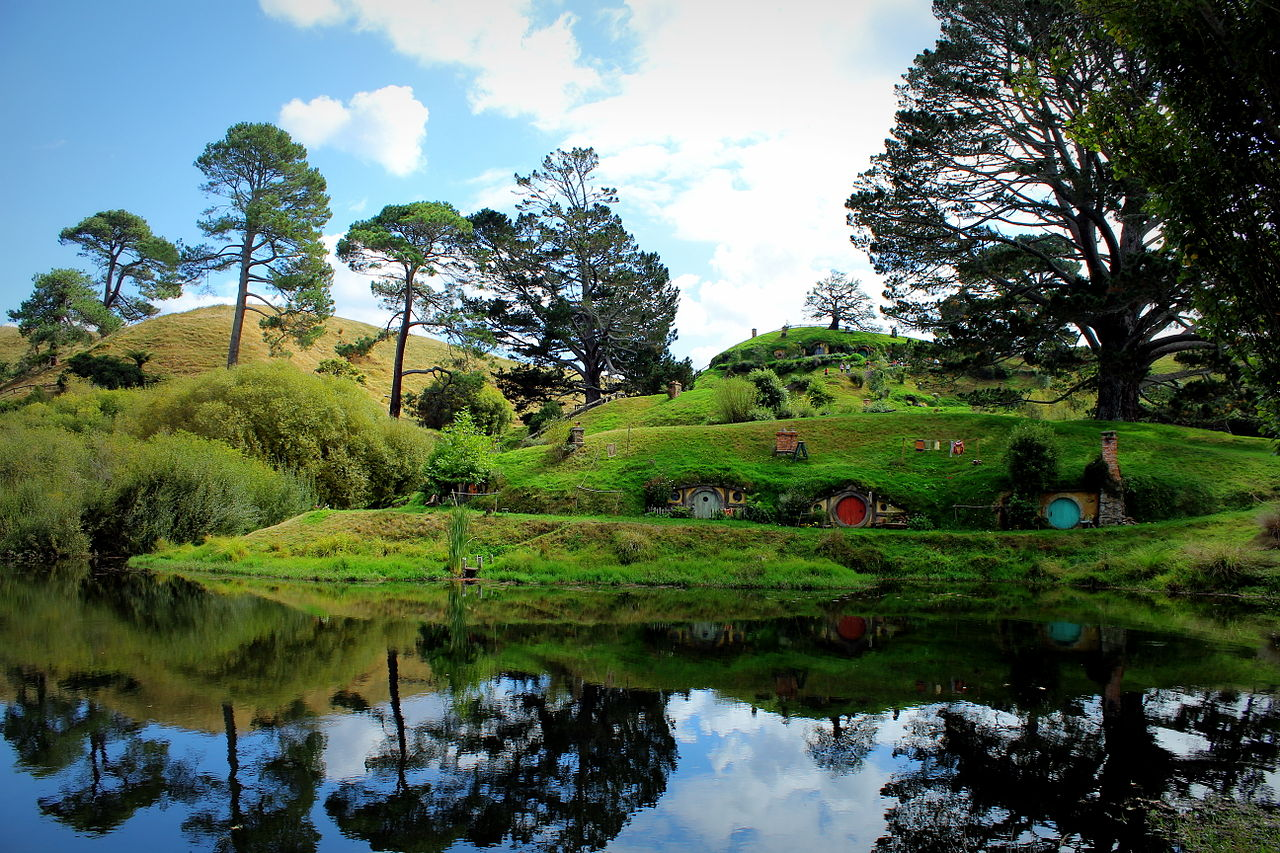
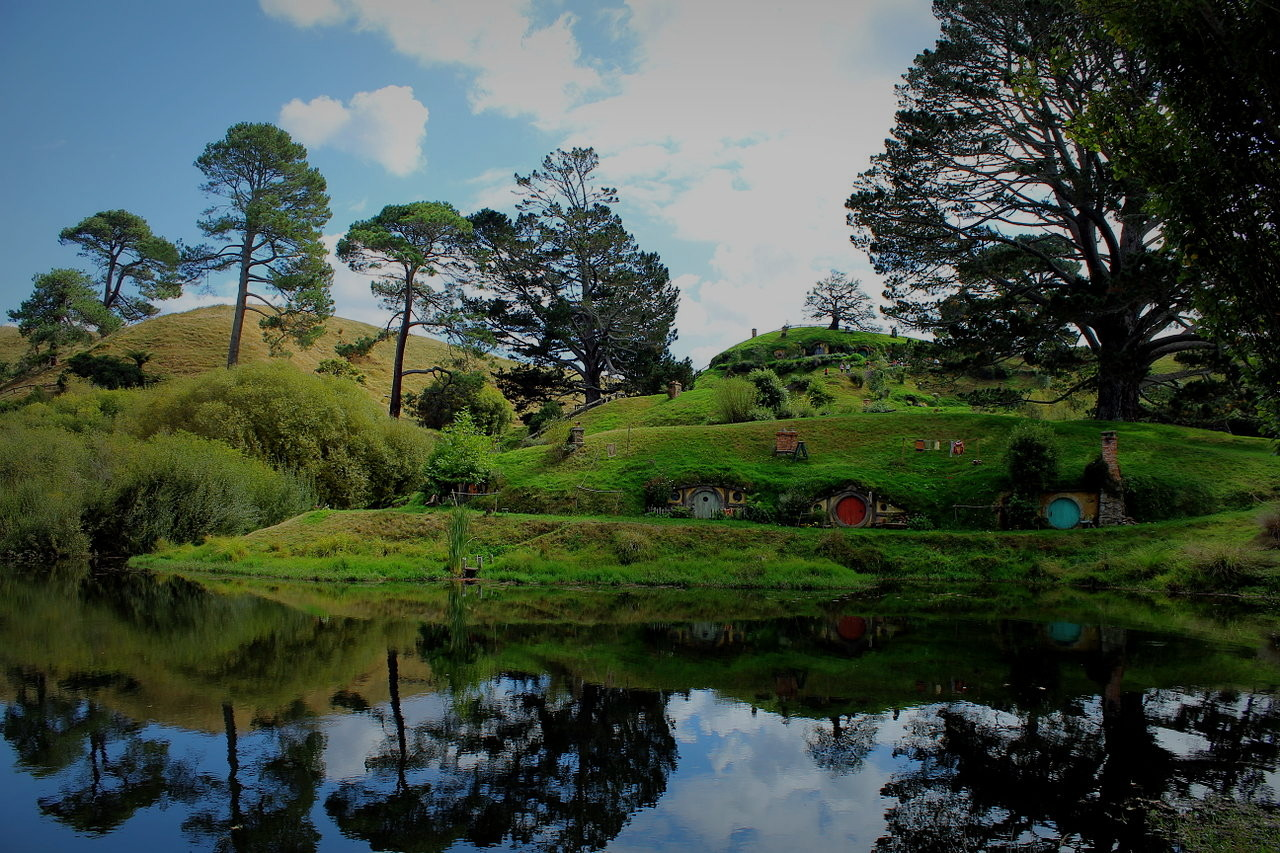
Dim cover image instead of applying a layer

diff --git a/_includes/header.html b/_includes/header.html
@@ -4,7 +4,7 @@
 {% assign cover = site.cover %}
 {% endif %}
 
-<header class="main-header detail-page image-bg {% if cover %} has-cover" style="background-image: linear-gradient(rgba(0, 0, 0, 0.2), rgba(0, 0, 0, 0.2)), url({{ cover | prepend: site.github.url | prepend: site.baseurl}})" {% else %} no-cover" {% endif %}>
+<header class="main-header detail-page image-bg {% if cover %} has-cover" style="background-image: url({{ cover | prepend: site.github.url | prepend: site.baseurl}})" {% else %} no-cover" {% endif %}>
     <h1 class="page-title"><a href="{{ site.github.url}}/" title="{{ site.title }}">{{ site.title }}</a></h1>
     <h2 class="page-description">{{ site.subtitle }}</h2>
     <div class="nav">
